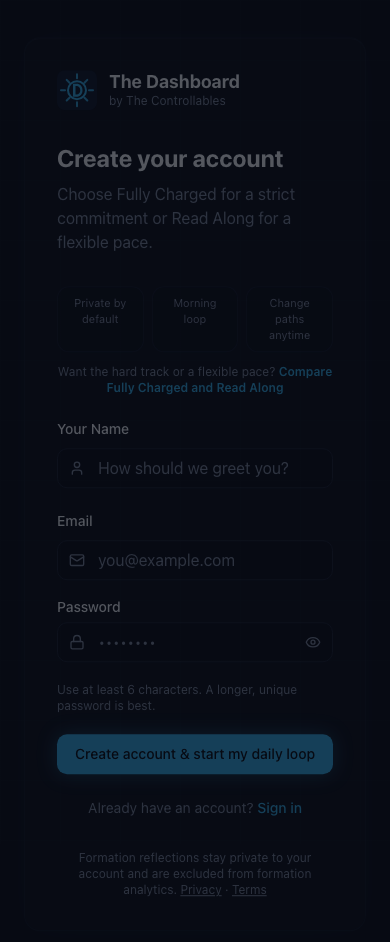
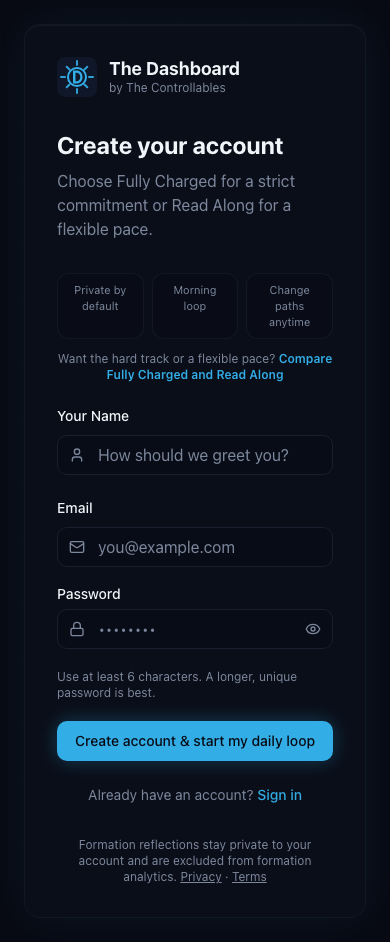
Ignore empty reading timestamps and verify settled mobile receipt states

diff --git a/tests/unit/qa-functional.test.ts b/tests/unit/qa-functional.test.ts
@@ -18,10 +18,10 @@ describe("functional QA regressions", () => {
     expect(history.find(e => !evaluateCircuit(e.track,e.circuit,e.draft).isSatisfiedForTrack)).toBeUndefined();
     expect(evaluateCircuit("read_along", "awareness", history[0].draft).statusLabel).toBe("Practice recorded ✓");
   });
-  it("renders and acknowledges a receipt without strict mutation", () => {
+  it.each(["read_along", "charge_40"] as const)("renders and acknowledges a %s receipt without strict mutation", track => {
     const storage = new Map(); vi.stubGlobal("localStorage", { getItem: (key: string) => storage.get(key), setItem: (key: string,value: string) => storage.set(key,value) });
     let tree: ReturnType<typeof create>;
-    act(() => { tree = create(createElement(MemoryRouter, null, createElement(FirstWeekPanel, { history, userId: "qa", journey: null, track: "read_along", today: "2026-10-19", nextCircuit: null, canPractice: true }))); });
+    act(() => { tree = create(createElement(MemoryRouter, null, createElement(FirstWeekPanel, { history: history.map(e => ({...e,track})), userId: "qa", journey: null, track, today: "2026-10-19", nextCircuit: null, canPractice: true }))); });
     expect(JSON.stringify(tree!.toJSON())).toContain("Day complete");
     expect(JSON.stringify(tree!.toJSON())).not.toContain('"Continue"');
     const close = tree!.root.findAllByType("button").find(b => b.children.includes("Close today"))!;
@@ -36,6 +36,10 @@ describe("functional QA regressions", () => {
   it("ignores setup choices and empty normalized payloads, retaining real reading progress", () => {
     expect(hasMeaningfulLocalProgress([{kind:"track",record_key:"current",payload:"charge_40"}, ...encodeState("profile", "current", normalizers.profile(undefined)), ...encodeState("reading", "current", normalizers.reading(undefined))])).toBe(false);
     expect(hasMeaningfulLocalProgress([{kind:"crm",record_key:"2026-10-19",payload:normalizers.crm({control:"One thing"})}])).toBe(true);
+    const emptyReading = normalizers.reading({ startedAt: "2000-01-01T00:00:00Z" });
+    expect(hasMeaningfulLocalProgress(encodeState("reading","current",emptyReading))).toBe(false);
+    expect(hasMeaningfulLocalProgress(encodeState("reading","current",{...emptyReading,completedSectionIds:["awareness"]}))).toBe(true);
+    expect(hasMeaningfulLocalProgress([{kind:"dex",record_key:"proof",payload:{id:"proof"}}])).toBe(true);
     expect(importProgressTitle(1)).toBe("Import 1 saved item from this browser?"); expect(importProgressTitle(3)).toBe("Import 3 saved items from this browser?");
   });
 });

diff --git a/tests/e2e/qa-functional.spec.ts b/tests/e2e/qa-functional.spec.ts
@@ -1,4 +1,6 @@
 import { test, expect } from "@playwright/test";
+test.use({reducedMotion:"reduce"});
+async function settled(page: import("@playwright/test").Page, selector:string){ await expect.poll(()=>page.locator(selector).evaluate(el=>{let opacity=1;for(let n:Element|null=el;n;n=n.parentElement)opacity*=Number(getComputedStyle(n).opacity);return opacity;})).toBe(1); }
 test("mobile non-strict receipt persists only a display acknowledgement and public entry is clean", async ({page}) => {
   const external:string[]=[];
   await page.route("**/*", route => {
@@ -21,9 +23,9 @@ test("mobile non-strict receipt persists only a display acknowledgement and publ
   const receipt=page.getByTestId("practice-day-receipt"); await expect(receipt).toContainText("Day complete"); await expect(page.getByTestId("next-practice")).toHaveCount(0);
   await page.getByRole("button",{name:"Close today",exact:true}).click(); await page.reload(); await expect(page.getByRole("button",{name:"Today acknowledged"})).toBeDisabled();
   expect(external.some(path=>path.includes("close_fully_charged_day"))).toBe(false);
-  await page.screenshot({path:"docs/qa/pr1/today-mobile.png",fullPage:true});
+  await settled(page,"h1"); await page.screenshot({path:"docs/qa/pr1/today-mobile.png",fullPage:true});
   await page.goto("/my-controllables"); await expect(page.getByText("Formation practices recorded: 5")).toBeVisible(); await expect(page.getByText("0 XP",{exact:true})).toBeVisible();
   await page.goto("/evidence"); await expect(page.getByText("Formation practices recorded: 5")).toBeVisible();
-  await page.goto("/"); await expect(page.getByTestId("cta-get-started")).toBeVisible(); await page.screenshot({path:"docs/qa/pr1/landing-mobile.png",fullPage:true});
-  await page.goto("/auth?mode=signup"); await expect(page.getByTestId("auth-form")).toBeVisible(); await page.screenshot({path:"docs/qa/pr1/auth-mobile.png",fullPage:true});
+  await page.goto("/"); await expect(page.getByTestId("cta-get-started")).toBeVisible(); await settled(page,'[data-testid="cta-get-started"]'); await page.screenshot({path:"docs/qa/pr1/landing-mobile.png"});
+  await page.goto("/auth?mode=signup"); await expect(page.getByTestId("auth-form")).toBeVisible(); await settled(page,'[data-testid="auth-form"]'); await page.screenshot({path:"docs/qa/pr1/auth-mobile.png",fullPage:true});
 });

diff --git a/src/data/bookLoop/local.ts b/src/data/bookLoop/local.ts
@@ -130,6 +130,12 @@ export function hasMeaningfulLocalProgress(records: Omit<BookRecord, "revision">
   return records.some(row => {
     if (row.kind === "track" || row.kind === "startingCharge") return false;
     if (row.kind === "promise" || row.kind === "dex") return true;
+    if (row.kind === "reading") {
+      const reading = normalizers.reading(row.payload);
+      const defaults = normalizers.reading(undefined);
+      // Normalization creates startedAt even for an empty object; a timestamp alone is not progress.
+      return reading.completedSectionIds.length > 0 || reading.completedRepIds.length > 0 || Boolean(reading.bookCompletedAt) || reading.currentSectionId !== defaults.currentSectionId;
+    }
     const defaults = encodeState(row.kind, row.record_key, normalizers[row.kind](undefined));
     return !defaults.some(defaultRow => JSON.stringify(defaultRow.payload) === JSON.stringify(row.payload));
   });
